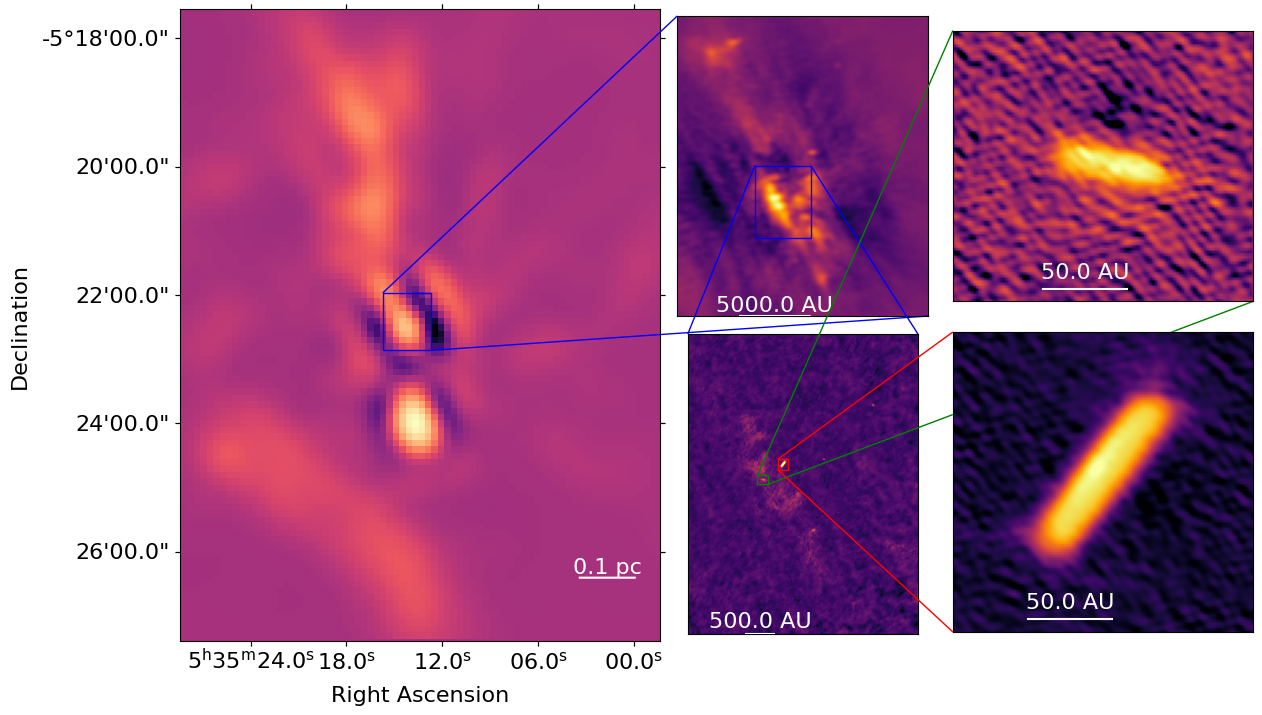
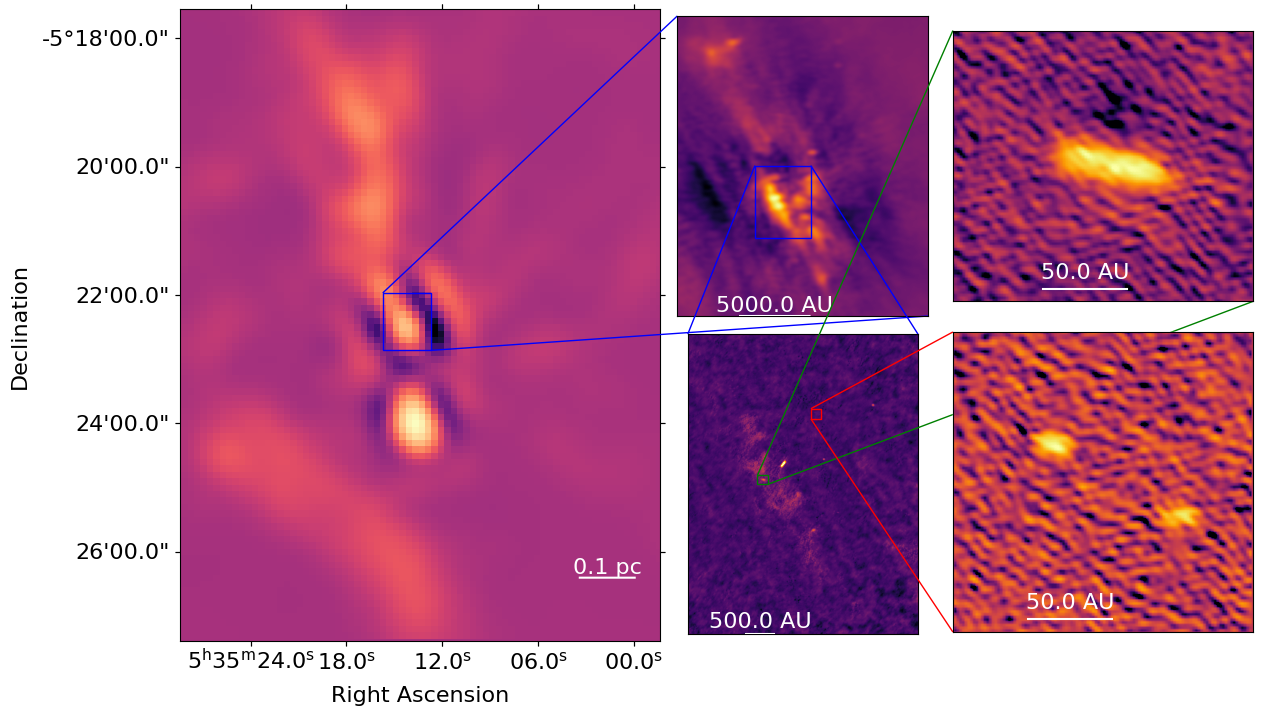
update figure

diff --git a/EPOS_2022.html b/EPOS_2022.html
@@ -337,6 +337,11 @@ by the dense OMC, are likelier to be truncated by external photoevaporation.
 
 
 <section>
+    <h4> The canonical hot core isn't </h4>
+    <img src="orion_assets/HotCoreDisk_ZoomIn.png">
+</section>
+
+<section>
     <h3>Dynamical ends to accretion</h3>
 
     <div style='width:100%'>
